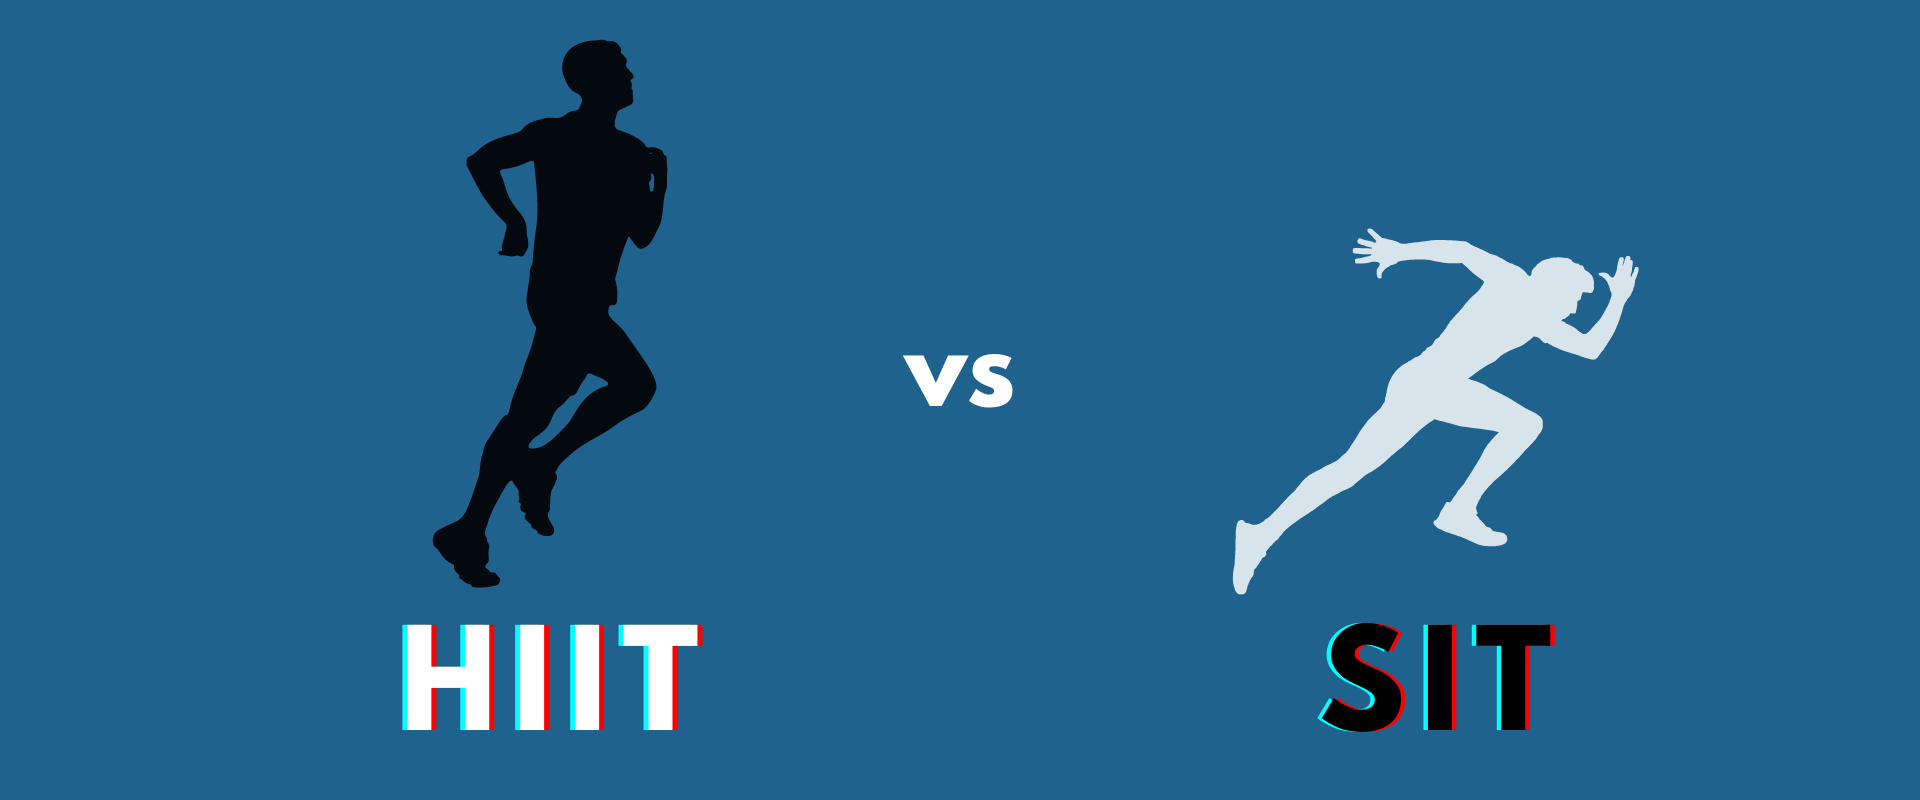
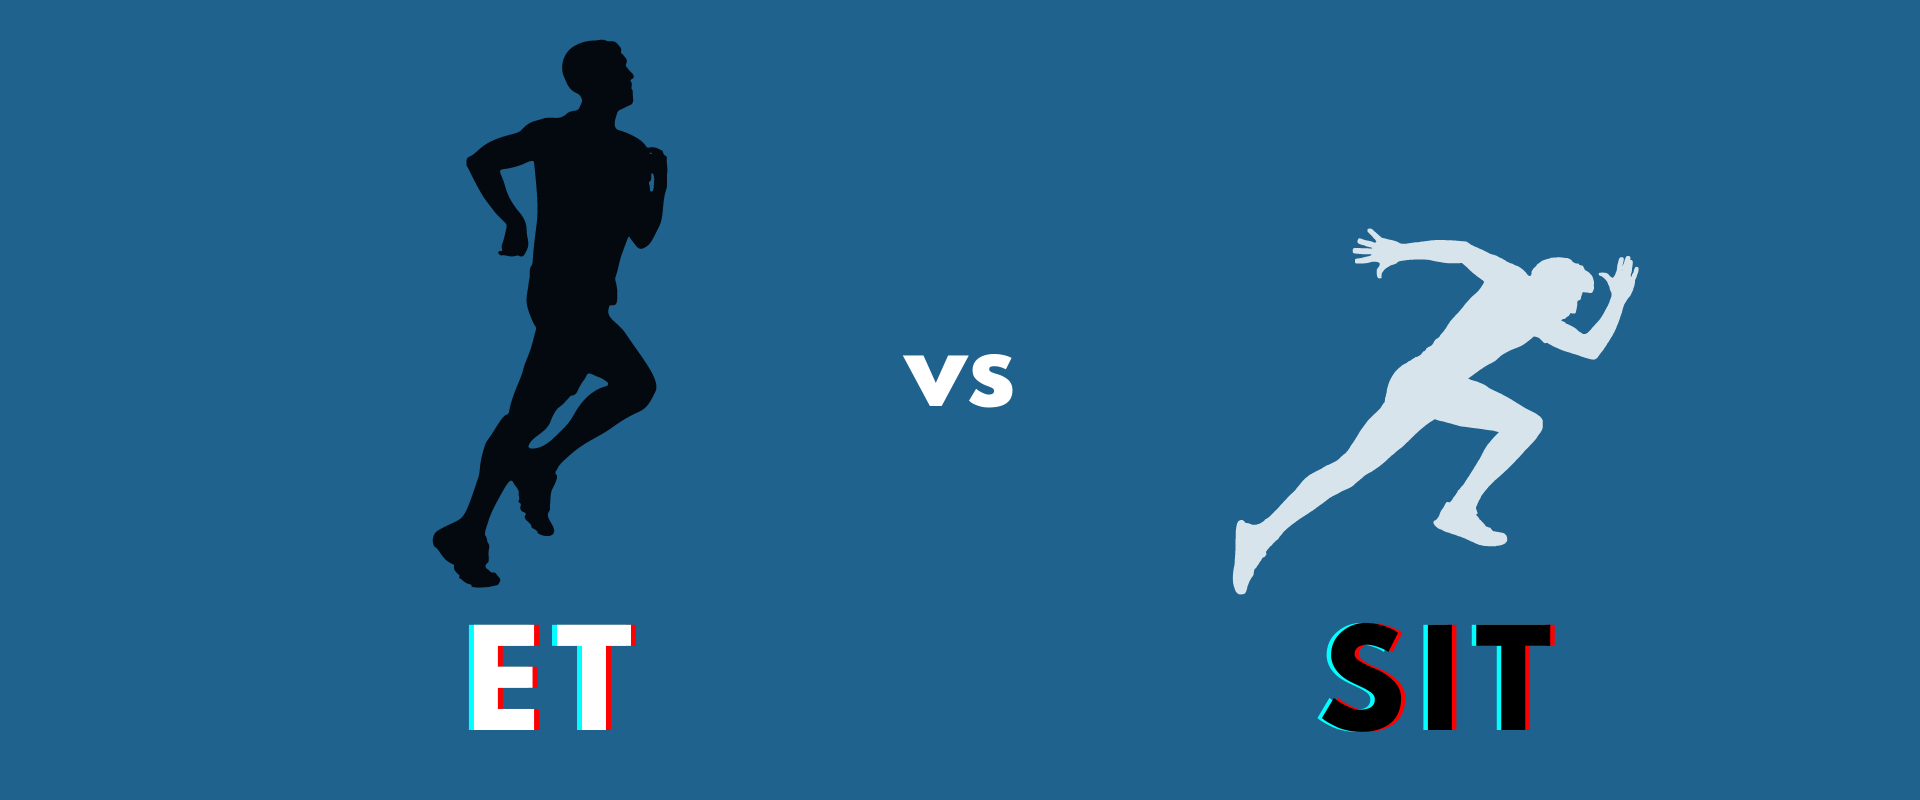
yes

Changed region(s): [[0.1875, 0.7812, 0.375, 0.9375]]

diff --git a/Proteus_blog/Sports Science/Sports Science_HIITvsSIT/blog.html b/Proteus_blog/Sports Science/Sports Science_HIITvsSIT/blog.html
@@ -64,7 +64,7 @@
 
   <section id="title">
     <div class="row">
-      <h1 class="heading">HIIT vs SIT</h1>
+      <h1 class="heading">ET vs SIT</h1>
     </div>
     <div class="row">
       <p class="sub-head">
